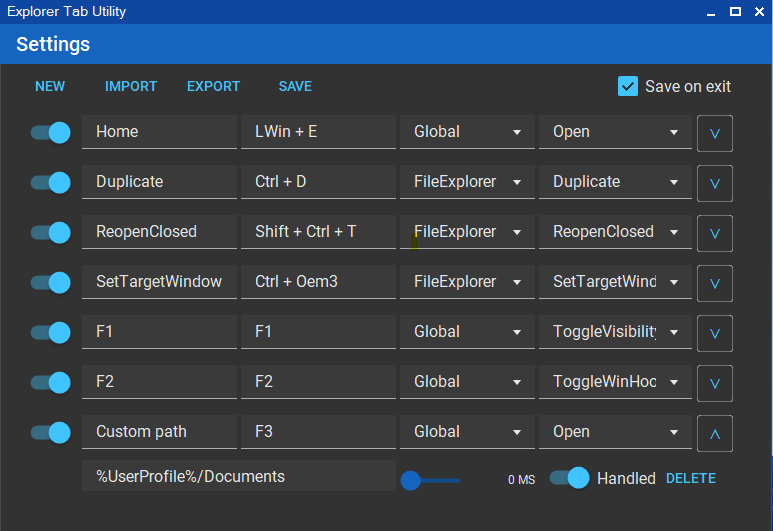
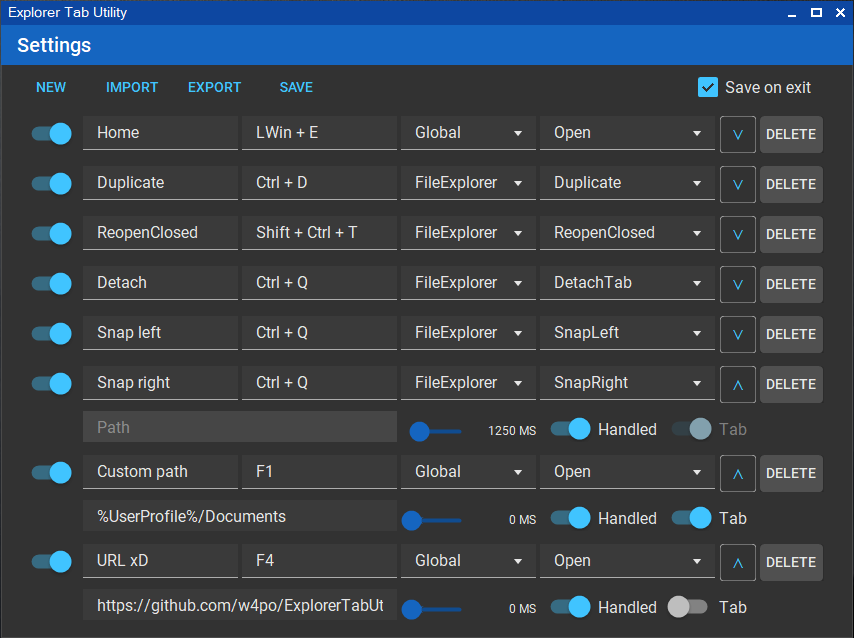
docs: update README with new features and clarifications
- Add detach & snap windows section with example setup
- Add navigate back feature description
- Add per-profile tab/window preference option
- Add URL and program launching support
- Add antivirus warning and exclusion guide
- Add uninstallation instructions
- Update custom path examples
- Improve overall documentation clarity

#16 #37

diff --git a/README.md b/README.md
@@ -43,27 +43,64 @@ Say goodbye to cluttered desktops with multiple Explorer windows! Explorer Tab U
 <details>
 <summary>🖨 Duplicate Current Tab</summary>
 
+- Quickly duplicate the current tab/window
+- Choose whether to duplicate as a tab or new window (toggle `Tab` option)
+- Preserves the current location and selected items
+
 ![Duplicate current tab](Assets/DuplicateTab.gif)
 </details>
 
 <details>
 <summary>♻ Reopen Closed Tabs</summary>
 
+- Reopen previously closed tabs/windows
+- Choose whether to reopen as a tab or new window (toggle `Tab` option)
+- Restores the exact location and selected items
+
 ![Reopen closed tabs](Assets/ReopenClosedTab.gif)
+</details>
+
+<details>
+<summary>📋 Detach & Snap Windows</summary>
+
+- Detach current tab to a new window
+- Snap windows to screen edges (right/left/top/bottom)
+- Chain multiple actions with a single hotkey
+- Example setup (CTRL + Q):
+  1. First profile: Detach current tab
+  2. Second profile: Snap original window to the left
+  3. Third profile: Snap new window to the right (with customizable delay)
+- Customize delays to match your system's performance
+
+![Detach & Snap](Assets/DetachSnap.gif)
+</details>
+
+<details>
+<summary>⬅ Navigate Back</summary>
+
+- Navigate back in File Explorer using:
+  - Keyboard shortcuts (customizable)
+  - Mouse clicks on any empty space in the folder
+- Perfect for quick navigation between directories
+
 </details>
 
 <details>
 <summary>📁 Custom Path Navigation</summary>
 
 - Assign hotkeys to quickly open your favorite locations
-- Supports multiple path formats:
+- Choose whether to open as a tab or new window (toggle `Tab` option)
+- Supports multiple formats:
   - Standard paths: `C:\Users\Documents`
   - Environment variables: `%USERPROFILE%\Downloads`
   - Windows CLSID paths: `{A8CDFF1C-4878-43be-B5FD-F8091C1C60D0}` (Special Folders)
-- Perfect for frequently accessed directories
+  - Programs and files: `C:\file.txt`
+  - URLs: `https://github.com/w4po/ExplorerTabUtility` (opens in default browser)
+- Perfect for frequently accessed locations
 - Instant access to system folders using CLSIDs
 
 ![Open custom path](Assets/OpenCustomPath.gif)
+![Open custom URL](Assets/OpenCustomUrl.gif)
 </details>
 
 <details>
@@ -193,6 +230,44 @@ Each profile contains the following settings:
 - Advanced threading with STA scheduler
 - Concurrent collections for thread safety
 </details>
+
+## Antivirus Detection
+
+> [!WARNING]
+> The utility might be flagged by antivirus software as suspicious. This is a **false positive** caused by our use of:
+> - COM interactions (for File Explorer tab management)
+> - Low-level keyboard & mouse hooks (for hotkey support)
+>
+> The tool is completely open source, and you can:
+> - Review the source code in this repository
+> - Build it yourself using Visual Studio
+> - Verify its safety and functionality
+
+### Adding to Windows Defender Exclusions
+
+If Windows Defender is blocking the utility, you can add it to the exclusions list:
+
+1. Open Windows Security
+2. Go to `Virus & threat protection`
+3. Click `Manage settings` under `Virus & threat protection settings`
+4. Scroll down to `Exclusions` and click `Add or remove exclusions`
+5. Click `Add an exclusion` and select `Folder`
+6. Browse to the Explorer Tab Utility folder location
+
+Alternatively, you can use PowerShell (Run as Administrator):
+```powershell
+Add-MpPreference -ExclusionPath "PATH_TO_UTILITY_FOLDER"
+```
+
+## Uninstallation
+
+The utility is portable and can be removed by simply deleting its folder. However:
+
+- If you enabled the `Add to startup` option, make sure to disable it first before deletion
+- If you installed via winget, run:
+  ```powershell
+  winget uninstall w4po.ExplorerTabUtility
+  ```
 
 ## ℹ Notes
 
